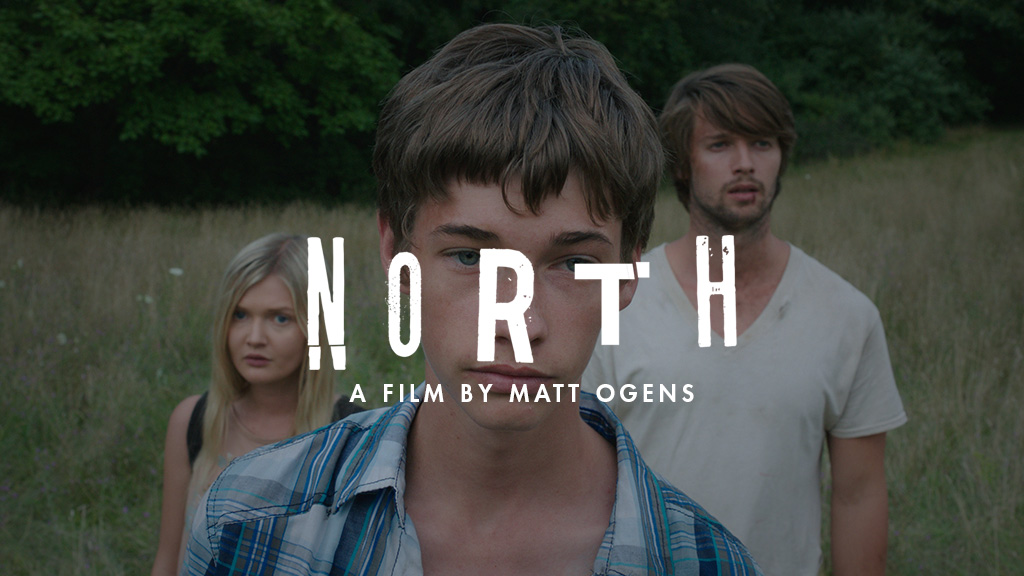
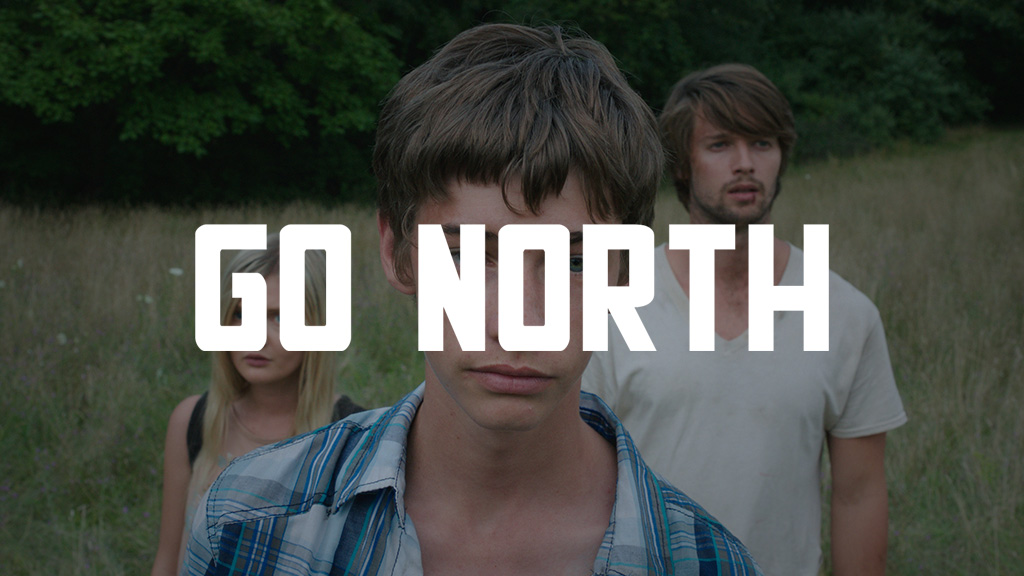
Adding poster and some other pre release updates

Changed region(s): [[0.375, 0.375, 0.8125, 0.625], [0.1875, 0.375, 0.3438, 0.6562], [0.3438, 0.6562, 0.6875, 0.7188]]

diff --git a/dev/data/data.js b/dev/data/data.js
@@ -17,12 +17,20 @@ NOR.onData({
 		{ label: "Gallery", path: "gallery" },
 		{ label: "VR Experience", type: "header", path: "vr" },
 		{ label: "VR Gallery", path: "gallery-vr" },
-		// { label: "Watch Trailer", path: "trailer" },
+		{ label: "Watch Trailer", path: "trailer" },
 		{ label: "Cast & credits", path: "credits" },
 		{ label: "News", path: "news" },
 		{ label: "Contact", path: "contact" }
 
 	],
+
+	trailer: {
+		url: 'dYqbtDV1MJQ'
+	},
+
+	vrfilm: {
+		url: 'k7v6n2_A_e0'
+	},
 
 	home: {
 
@@ -46,11 +54,14 @@ NOR.onData({
 		feature: "<p>A few years from now, something will happen that will change our world.  A global event that causes pandemonium, chaos, and death.  Life as we know it will never be the same.  Left behind are abandoned buildings, empty streets, and other painful reminders of a better yesterday.  Not a single adult remains, all victims of this global catastrophe.</p><p>The only survivors are teenagers and children, living on the streets in the hollowed out shell of a once great city.  This is their world now.  They make their own rules and enforce their own laws.  Some are merely trying to survive, while others rule by force.</p><p>Our hero is a young boy named Josh <i>(Jacob Lofland - Mud, Little Accidents, Maze Runner 2, The Free State of Jones)</i> who decides to take the biggest risk of all. He flees the dangerous confines of his abandoned city and embarks on a journey with his classmate and neighbor Jessie <i>(Sophie Kennedy Clark - Philomena, Nymphomaniac)</i>, to what they’ve heard is the only safe haven left in the world.  Pursued by The Lettermen, led by Caleb <i>(Patrick Schwarzenegger)</i> and Gentry <i>(James Bloor)</i>, Josh and Jessie trek North.  The place where everyone attempted to migrate years ago when the disaster first struck.  They don’t know how to get there, or if it even exists.  All they know is that it is NORTH.</p>"
 	},
 
-	trailer: {
-		youtubeid: '1YfwEKoDXTc'
-	},
-
 	news: [
+
+		{
+			title: "GO NORTH in Theaters & on VOD January 13th",
+			image: "assets/poster.jpg",
+			content: "NYC | Cinema Village<br>Philadelphia | Roxy<br>Detroit | Cinema Detroit<br>Atlanta | Plaza Theatre<br>Boston | Wellfleet 4<br>Minneapolis / St. Paul | Gopher Theatre<br>Cleveland | Atlas Cinemas Diamond 6<br>Denver | Kress Cinema and Lounge<br>Seattle | Dragonfly Cinema<br>Tampa | Cinema 6<br><br><a href='http://bit.ly/gonorthmovie'><img class='itunes' src='assets/itunes.png'></a>" ,
+			date: "1/1/2017"
+		},
 
 		{
 			title: "First Look at Patrick Schwarzenegger, Jacob Lofland in 'North'",

diff --git a/dev/less/home.less b/dev/less/home.less
@@ -27,6 +27,27 @@
 			}
 		}
 
+		h5 {
+			text-align: center;
+			width: 100%;
+			color: @color;
+			font-family: @sans;
+			text-transform: uppercase;
+			font-weight: 700;
+			font-size: 12px;
+			margin: 16px 0 0 -4px;
+
+			a {
+				text-decoration: none;
+			}
+		}
+
+		.vod {
+			img {
+				width: 130px;
+			}
+		}
+
 		.tt {
 			position: relative;
 			width: 60%;
@@ -40,9 +61,41 @@
 			}
 		}
 
+		a {
+			color: @color;
+			font-family: @sans;
+			text-decoration: none;
+			text-transform: uppercase;
+			font-weight: 700;
+			font-size: 12px;
+
+			position: relative;
+
+			&:after {
+				content: '';
+				position: absolute;
+				width: 100%;
+				height: 2px;
+				bottom: -6px;
+				left: 0;
+				background-color: #fff;
+				transform: scaleX(0.0);
+
+				transition: transform 0.2s ease;
+			} 
+
+			.no-touch &:hover {
+				color: #fff;
+
+				&:after {
+					transform: scaleX(1.0);
+				}
+			}
+		}
+
 		ul.quick-menu {
 
-			margin-top: 60px;
+			margin-top: 40px;
 			width: 100%;
 			text-align: center;
 
@@ -50,40 +103,10 @@
 				display: inline-block;
 				margin: 0 6px 10px 6px;
 			}
+		}
 
-			a {
-				color: @color;
-				font-family: @sans;
-				text-decoration: none;
-				text-transform: uppercase;
-				font-weight: 700;
-				font-size: 12px;
-
-				position: relative;
-
-				&:after {
-					content: '';
-					position: absolute;
-					width: 100%;
-					height: 2px;
-					bottom: -6px;
-					left: 0;
-					background-color: #fff;
-					transform: scaleX(0.0);
-
-					transition: transform 0.2s ease;
-				} 
-
-				.no-touch &:hover {
-					color: #fff;
-
-					&:after {
-						transform: scaleX(1.0);
-					}
-				}
-			}
-
-			@media(min-width: 768px) {
+		@media(min-width: 768px) {
+			ul.quick-menu {
 				li {
 					margin: 0 10px 0 0;
 				}
@@ -96,10 +119,10 @@
 					position: relative;
 					top: 3px;
 				}
+			}
 
-				a {
-					font-size: 14px;
-				}
+			a {
+				font-size: 14px;
 			}
 		}
 	}

diff --git a/dev/src/views/VR.js b/dev/src/views/VR.js
@@ -8,9 +8,13 @@ NOR.VR = function($) {
 	var head = container.ext.select('.head');
 	var sub = container.ext.select('.sub');
 
-	var htwBtn = container.ext.select('.htw-btn');
+	var watchBtn = container.ext.select('.watch-btn');
 	var htw = container.ext.select('.htw');
-	var htwVisible = false;
+
+	if(Simplrz.touch) {
+		watchBtn.innerHTML = "Watch in 360&deg;";
+	}
+
 
 	var fadeInDelay = NOR.Animation.MENU_SLIDE_TIME;
 	if(!Simplrz.touch ) fadeInDelay += 1000;
@@ -28,15 +32,15 @@ NOR.VR = function($) {
  		content.ext.transform({ rotY: mx * 40 });
 	}
 
-	htwBtn.ext.on('click', function() {
-		if(!htwVisible) {
-			htw.ext.show();
-			htw.style.opacity = 0;
-			htw.ext.transition({ opacity: 1 }, 1000, "ease");
-			htwVisible = true;
+	var getYTurl = function(id) {
+		return 'https://www.youtube.com/watch?v=' + id;
+	}
+
+	watchBtn.ext.on('click', function() {
+		if(Simplrz.touch) {
+			window.open(getYTurl($.data.vrfilm.url));
 		} else {
-			htw.ext.hide();
-			htwVisible = false;
+			Application.navigate.trigger("vrfilm");
 		}
 	});
 
@@ -80,13 +84,17 @@ NOR.VR = function($) {
 				}
 			);
 
-			htw.ext.hide();
+			htw.style.opacity = 0;
+			htw.ext.transform({ y: 30 });
+			htw.ext.transition(
+				{ opacity: 1, transform: { y: 0 } }, 
+				NOR.Animation.FADE_IN_TIME * 2.2, 
+				Util.cssEase.easeOut, 
+				fadeInDelay + 400
+			);
 
 		} else {
 			container.ext.hide();
-			htwVisible = false;
-			// document.removeEventListener('mousemove', trackMouse);
-			// FrameImpulse.off(moveTitle);
 		}
 	});
 }

diff --git a/dev/src/views/Video.js b/dev/src/views/Video.js
@@ -1,4 +1,4 @@
-NOR.Trailer = function($) {
+NOR.Video = function($) {
 
 	var container = EXT.select('#trailer');
 
@@ -22,14 +22,7 @@ NOR.Trailer = function($) {
 		return 'http://www.youtube.com/embed/' + id + ytOptions;
 	}
 
-	var startTrailer = function() {
-		var ytURL = getYTurl($.data.trailer.youtubeid);
-		ytFrame.src = ytURL;
-		container.ext.show();
-	}
-
-	var endTrailer = function() {
-		console.log('endTrailer');
+	var closePlayer = function() {
 		ytFrame.src = '';
 		container.ext.hide();
 	}
@@ -39,9 +32,13 @@ NOR.Trailer = function($) {
 	Application.route.on(function(c, l) {
 
 		if(c.lastPart == NOR.NAV_TRAILER) {
-			startTrailer();
-		} else if(l.lastPart == NOR.NAV_TRAILER) {
-			endTrailer();
+			ytFrame.src = getYTurl($.data.trailer.url);
+			container.ext.show();
+		} else if(c.lastPart == NOR.NAV_VRFILM) {
+			ytFrame.src = getYTurl($.data.vrfilm.url);
+			container.ext.show();
+		} else if(l.lastPart == NOR.NAV_TRAILER || l.lastPart == NOR.NAV_VRFILM) {
+			closePlayer();
 		}
 
 	});

diff --git a/dev/src/views/Home.js b/dev/src/views/Home.js
@@ -5,6 +5,8 @@ NOR.Home = function($) {
 	var logo = container.ext.select('.tt');
 	var director = container.ext.select('h4');
 	var qmenu = container.ext.select('.quick-menu');
+	var release = container.ext.select('h5.rel');
+	var vod = container.ext.select('h5.vod');
 
 	// var vr = container.ext.select('.vr');
 	// vr.ext.bg($.data.home.vr);
@@ -43,6 +45,24 @@ NOR.Home = function($) {
 				NOR.Animation.FADE_IN_TIME * 2.4, 
 				Util.cssEase.easeOut, 
 				fadeInDelay + 200
+			);
+
+			release.style.opacity = 0;
+			release.ext.transform({ y:  40 });
+			release.ext.transition(
+				{ opacity: 1, transform: { y: 0 } }, 
+				NOR.Animation.FADE_IN_TIME * 2.6, 
+				Util.cssEase.easeOut, 
+				fadeInDelay + 300
+			);
+
+			vod.style.opacity = 0;
+			vod.ext.transform({ y:  50 });
+			vod.ext.transition(
+				{ opacity: 1, transform: { y: 0 } }, 
+				NOR.Animation.FADE_IN_TIME * 2.6, 
+				Util.cssEase.easeOut, 
+				fadeInDelay + 400
 			);
 
 		} else {

diff --git a/dev/src/views/Footer.js b/dev/src/views/Footer.js
@@ -1,5 +1,6 @@
 NOR.Footer = function($) {
 
+	var ft = EXT.select("footer");
 	var fb = EXT.select("footer .fb");
 	var tw = EXT.select("footer .tw");
 
@@ -33,4 +34,13 @@ NOR.Footer = function($) {
 		openPopup(u, 640, 260);
 	});
 
+	Application.route.on(function(c, l) {
+
+		if(c.lastPart == NOR.NAV_TRAILER) {
+			ft.ext.hide();
+		} else if(l.lastPart == NOR.NAV_TRAILER) {
+			ft.ext.show();
+		}
+
+	});
 }

diff --git a/dev/less/about.less b/dev/less/about.less
@@ -21,14 +21,6 @@
 		font-size: 15px;
 		color: #fff;
 		padding: 1.4em 2em 1.4em 2em;
-		text-indent: 1em;
-
-		p:first-of-type {
-			font-style: italic;
-			font-size: 1.1em;
-			line-height: 1.75;
-			font-family: @serif;
-		}
 
 		@media(min-width: 640px) {
 			padding: 1.4em 3em 1.4em 3em;

diff --git a/dev/src/views/Nav.js b/dev/src/views/Nav.js
@@ -43,6 +43,12 @@ NOR.Nav = function($) {
 		if(c.parts[0] == ".") {
 			lis[0].classList.add('current');
 		}
+
+		if(c.lastPart == NOR.NAV_VRFILM) { 
+			icon.ext.transform({ x: 45 });
+		} else {
+			icon.ext.transform({ x: 0 });
+		}
 	});
 
 	$.menuOpen.on(function(c, l) {

diff --git a/dev/src/views/News.js b/dev/src/views/News.js
@@ -27,7 +27,10 @@ NOR.News = function($) {
 				c += "<p>" + n.content + "</p>";
 			}
 
-			c += "<h5>" + n.source + "</h5>";
+			if(n.source) {
+				c += "<h5>" + n.source + "</h5>";
+			}
+
 			c += "<h6>" + n.date + "</h6>";
 			c += "</a>";
 

diff --git a/dev/less/vr.less b/dev/less/vr.less
@@ -61,7 +61,12 @@
 				font-size: 18px;
 			}
 
-			.htw-btn, a {
+			.sub span, .sub a {
+				display: inline-block;
+				margin: 0 8px 0 8px;
+			}
+
+			.watch-btn, a {
 				color: @color;
 				font-family: @sans;
 				text-decoration: none;

diff --git a/dev/src/NOR.js b/dev/src/NOR.js
@@ -4,6 +4,7 @@ NOR = {
 	NAV_ABOUT: "about",
 	NAV_CREDITS: "credits",
 	NAV_TRAILER: "trailer",
+	NAV_VRFILM: "vrfilm",
 	NAV_GALLERY: "gallery",
 	NAV_NEWS: "news",
 	NAV_CONTACT: "contact",

diff --git a/dev/src/main.js b/dev/src/main.js
@@ -11,7 +11,7 @@ NOR.onData = function(data) {
 	NOR.Home($);
 	NOR.About($);
 	NOR.VR($);
-	NOR.Trailer($);
+	NOR.Video($);
 	NOR.Credits($);
 	NOR.Gallery($);
 	// Handled by the Background 
